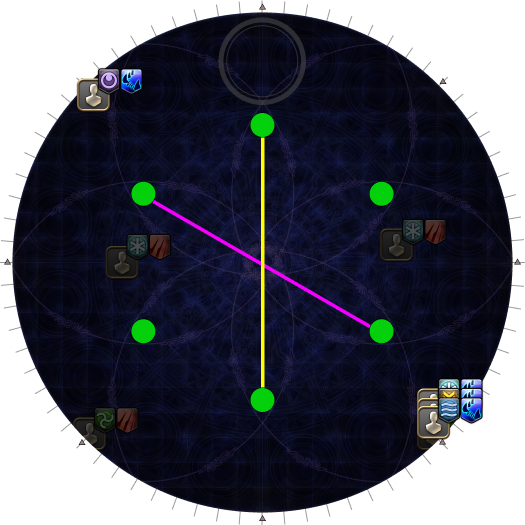
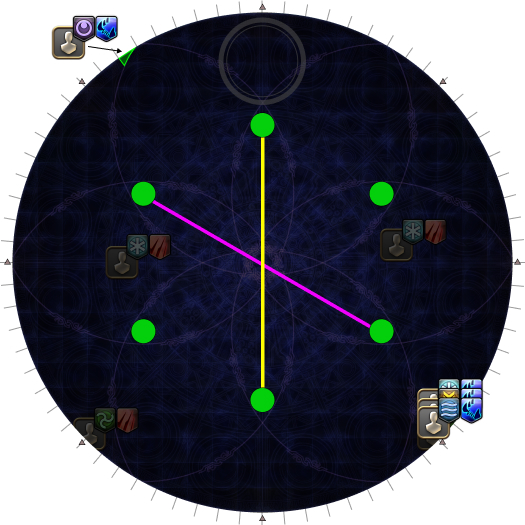
Go into more detail with Dark Eruption positioning

Changed region(s): [[0.0914, 0.0305, 0.2743, 0.2133]]

diff --git a/_static/fru/04_gaia_and_shiva.md b/_static/fru/04_gaia_and_shiva.md
@@ -406,17 +406,23 @@ will also need *at least* three 10% party-mitigations.
         <li>One will also have <em>Dark Blizzard III</em>.</li>
         <li>One will also have <em>Unholy Darkness</em>.</li>
       </ul>
+      <p>These players will need to eventually mark themselves 1-4.</p>
       <p>Identify the purple tether.</p>
-      <p><em>Only</em> the blue player with <em>Dark Eruption</em> goes to the
-      North-side intercardinal mark with the purple tether.</p>
-      <p>Everybody else joins the red Aero player at the South-side
-      intercardinal mark with the purple tether.</p>
-      <p>Keep the red Aero player as the closest player to the edge.</p>
+      <ul>
+        <li><b>Everybody <em>except</em> the player with <em>Dark Eruption</em>:</b> Join the red Aero player SW or SE (whichever has the purple tether).</li>
+        <li>
+          <p><b>Player with <em>Dark Eruption</em>:</b> Go NW or NE (whichever 
+          has the purple tether).</p>
+          <p>Be <em>all the way</em> in the "cubby hole" (marked in green in
+          the diagram, or refer to the screenshot).</p>
+        </li>
+      </ul>
       <p><em>(In this example, the purple tether stretches NW to SE, so the</em>
       Dark Eruption <em>player goes NW, and all other blue players move SE.)</em></p>
     </td>
     <td>
       <img src="{{site.baseurl}}/images/ultimates/fru/04/crystallize_time_01b.jpg">
+      <img src="{{site.baseurl}}/images/ultimates/fru/04/dark_eruption_position.jpg">
     </td>
   </tr>
 </table>

diff --git a/_mana/fru/04_gaia_and_shiva.md b/_mana/fru/04_gaia_and_shiva.md
@@ -395,16 +395,21 @@ all the previously encountered <em>Spell-in-Waiting</em> debuffs.</p>
       </ul>
       <p>These players will need to eventually mark themselves 1-4.</p>
       <p>Identify the purple tether.</p>
-      <p><em>Only</em> the blue player with <em>Dark Eruption</em> goes to the
-      North-side intercardinal mark with the purple tether.</p>
-      <p>Everybody else joins the red Aero player at the South-side
-      intercardinal mark with the purple tether.</p>
-      <p>Keep the red Aero player as the closest player to the edge.</p>
+      <ul>
+        <li><b>Everybody <em>except</em> the player with <em>Dark Eruption</em>:</b> Join the red Aero player SW or SE (whichever has the purple tether).</li>
+        <li>
+          <p><b>Player with <em>Dark Eruption</em>:</b> Go NW or NE (whichever 
+          has the purple tether).</p>
+          <p>Be <em>all the way</em> in the "cubby hole" (marked in green in
+          the diagram, or refer to the screenshot).</p>
+        </li>
+      </ul>
       <p><em>(In this example, the purple tether stretches NW to SE, so the</em>
       Dark Eruption <em>player goes NW, and all other blue players move SE.)</em></p>
     </td>
     <td>
       <img src="{{site.baseurl}}/images/ultimates/fru_mana/04/crystallize_time_01b.jpg">
+      <img src="{{site.baseurl}}/images/ultimates/fru_mana/04/dark_eruption_position.jpg">
     </td>
   </tr>
 </table>
